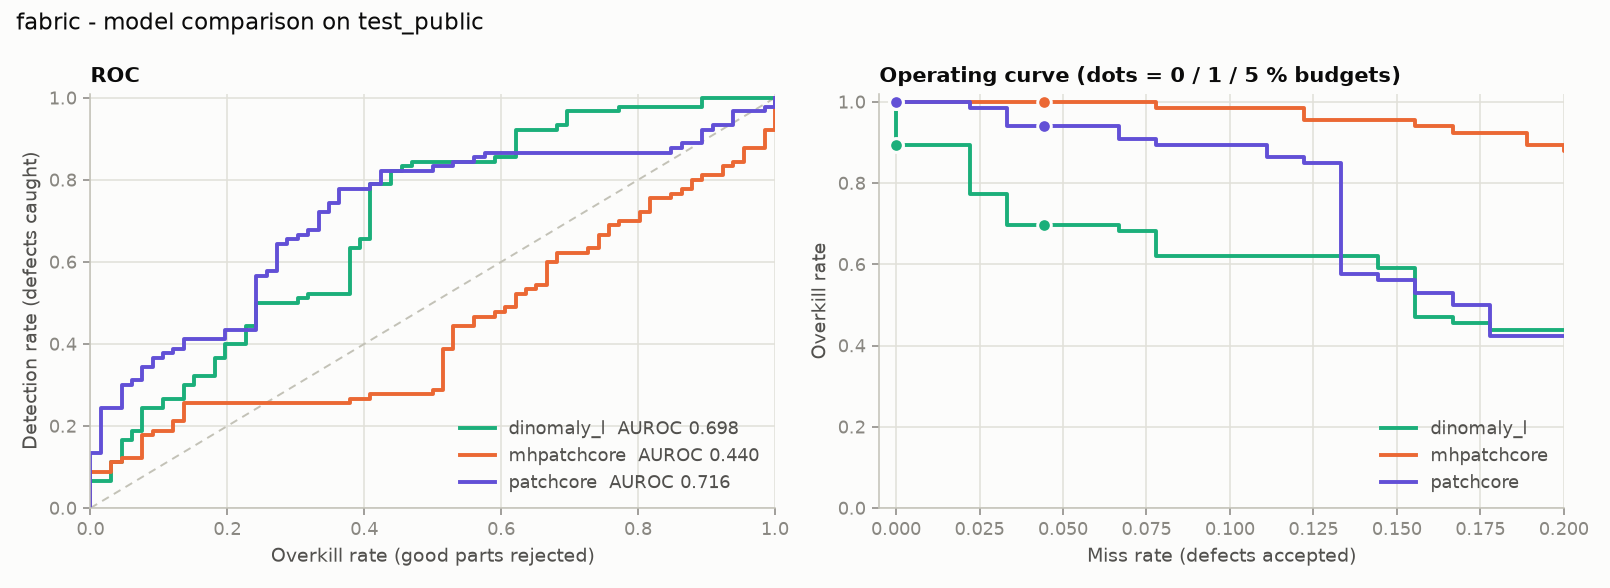
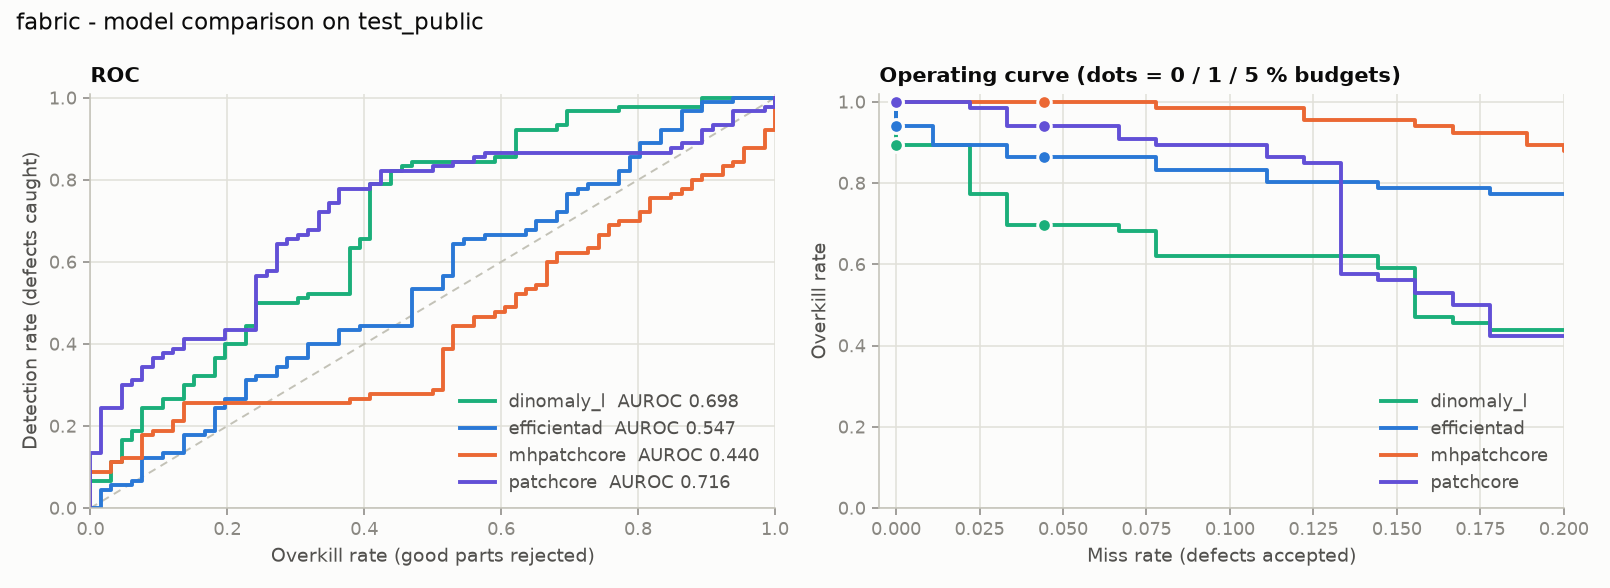
Complete EfficientAD on 8 categories; verify the pipeline on MVTec AD; add anomaly-map study
- EfficientAD 8/8 (mean AUROC 0.636); all analyses rerun with four models
- PatchCore on the original MVTec AD (archive matches the official SHA-256): mean image
  AUROC 0.982, so the near-chance AD 2 categories are not a pipeline fault
- export_maps.py: re-predicts with saved checkpoints, keeps anomaly maps, compares image-score
  aggregations and computes AU-PRO@0.05 at model input resolution; no aggregation helps
  consistently, Dinomaly-L localises best (0.317)
- augmented PatchCore does not reduce overkill under shift conditions (0.909 -> 0.908)
- score.py --dataset mvtecad

diff --git a/scripts/export_maps.py b/scripts/export_maps.py
@@ -1,0 +1,120 @@
+"""Re-predict test_public with a trained checkpoint and keep the anomaly maps.
+
+Two questions the image scores alone cannot answer:
+  * Would another way of turning the map into an image score separate good from defective
+    better than the model's own score (usually the map maximum)? Each aggregation is written as
+    an extra score file under results/scores_alt/, so evaluate.py can judge it on overkill.
+  * How well does the model localise defects? AU-PRO up to a 5 % false positive rate, the
+    MVTec AD 2 paper's metric. It is computed at the model's input resolution (after its resize
+    and centre crop, downsampled to at most MAP_SIDE), not at full image resolution as the
+    official server does, so it is close to but not the same as the paper's number.
+
+    uv run python scripts/export_maps.py --model patchcore --category sheet_metal
+"""
+
+from __future__ import annotations
+
+import argparse
+from pathlib import Path
+
+import numpy as np
+import pandas as pd
+import torch
+import torch.nn.functional as F
+from anomalib.data import MVTecAD2
+from anomalib.engine import Engine
+from anomalib.metrics.aupro import _AUPRO
+from anomalib.models import Dinomaly, EfficientAd, MHPatchcore, Patchcore
+from sklearn.metrics import roc_auc_score
+
+CLASSES = {"patchcore": Patchcore, "mhpatchcore": MHPatchcore, "efficientad": EfficientAd, "dinomaly_l": Dinomaly}
+MAP_SIDE = 256  # maps and masks are stored and scored at most this large
+AGGREGATIONS = {
+    "max": lambda m: m.max(axis=1),
+    "top1": lambda m: np.sort(m, axis=1)[:, -max(1, m.shape[1] // 100):].mean(axis=1),
+    "top5": lambda m: np.sort(m, axis=1)[:, -max(1, m.shape[1] // 20):].mean(axis=1),
+    "mean": lambda m: m.mean(axis=1),
+}
+
+
+def ckpt_of(model: str, category: str) -> Path:
+    found = sorted(Path("results/runs", model, category).rglob("model.ckpt"), key=lambda p: p.stat().st_mtime)
+    if not found:
+        raise FileNotFoundError(f"no checkpoint under results/runs/{model}/{category}")
+    return found[-1]
+
+
+def shrink(x: torch.Tensor, mode: str) -> torch.Tensor:
+    """(N, H, W) -> (N, h, w) with max(h, w) <= MAP_SIDE."""
+    n, h, w = x.shape
+    s = min(1.0, MAP_SIDE / max(h, w))
+    if s == 1.0:
+        return x
+    size = (max(1, round(h * s)), max(1, round(w * s)))
+    y = F.interpolate(x[:, None].float(), size=size, mode=mode, **({"align_corners": False} if mode == "bilinear" else {}))
+    return y[:, 0]
+
+
+def main() -> None:
+    p = argparse.ArgumentParser()
+    p.add_argument("--model", choices=CLASSES, required=True)
+    p.add_argument("--category", required=True)
+    p.add_argument("--root", type=Path, default=Path("datasets/MVTec_AD_2"))
+    p.add_argument("--limit-batches", type=int, default=None, help="smoke test: only the first N test batches")
+    p.add_argument("--out", type=Path, default=Path("results"))
+    args = p.parse_args()
+
+    ckpt = ckpt_of(args.model, args.category)
+    model = CLASSES[args.model].load_from_checkpoint(ckpt, map_location="cpu")
+    dm = MVTecAD2(root=args.root, category=args.category, eval_batch_size=8, num_workers=2)
+    dm.setup()
+    engine = Engine(logger=False, enable_progress_bar=False, limit_predict_batches=args.limit_batches)
+    batches = engine.predict(model=model, dataloaders=dm.test_dataloader())
+
+    maps, masks, labels, paths, own = [], [], [], [], []
+    for b in batches:
+        maps.append(shrink(b.anomaly_map.detach().float().cpu().reshape(-1, *b.anomaly_map.shape[-2:]), "bilinear"))
+        gt = b.gt_mask.detach().cpu().reshape(-1, *b.gt_mask.shape[-2:]).float()
+        masks.append(shrink(gt, "nearest") > 0.5)
+        labels += [int(v) for v in b.gt_label]
+        paths += list(b.image_path)
+        own += [float(v) for v in b.pred_score]
+    maps_t, masks_t = torch.cat(maps), torch.cat(masks)
+    y = np.array(labels)
+    flat = maps_t.reshape(len(maps_t), -1).numpy()
+
+    stem = f"{args.model}__{args.category}"
+    out_maps = args.out / "maps"
+    out_maps.mkdir(parents=True, exist_ok=True)
+    np.savez_compressed(out_maps / f"{stem}.npz", maps=maps_t.numpy().astype(np.float16), masks=masks_t.numpy(),
+                        labels=y, paths=np.array(paths), pred_score=np.array(own))
+
+    row = {"model": args.model, "category": args.category, "n_images": len(y), "ckpt": str(ckpt),
+           "auroc_model_score": roc_auc_score(y, own)}
+    alt_dir = args.out / "scores_alt"
+    alt_dir.mkdir(parents=True, exist_ok=True)
+    for name, agg in AGGREGATIONS.items():
+        s = agg(flat)
+        row[f"auroc_{name}"] = roc_auc_score(y, s)
+        pd.DataFrame({"image_path": paths, "label": y, "score": s}).to_csv(
+            alt_dir / f"{args.model}-{name}__{args.category}__seed0.csv", index=False)
+
+    aupro = _AUPRO(fpr_limit=0.05)
+    aupro.update(maps_t, masks_t.int())
+    row["aupro_005"] = float(aupro.compute()) if masks_t.any() else float("nan")
+
+    reference = Path("results/scores") / f"{args.model}__{args.category}__seed0.csv"
+    if reference.exists() and args.limit_batches is None:
+        ref = pd.read_csv(reference)
+        row["auroc_reference_csv"] = roc_auc_score(ref.label, ref.score)
+
+    metrics = args.out / ("map_metrics_smoke.csv" if args.limit_batches else "map_metrics.csv")
+    old = pd.read_csv(metrics) if metrics.exists() else pd.DataFrame()
+    if len(old):
+        old = old[~((old.model == args.model) & (old.category == args.category))]
+    pd.concat([old, pd.DataFrame([row])]).to_csv(metrics, index=False)
+    print({k: (round(v, 3) if isinstance(v, float) else v) for k, v in row.items() if k != "ckpt"}, flush=True)
+
+
+if __name__ == "__main__":
+    main()

diff --git a/src/industrial_inspection/plots.py b/src/industrial_inspection/plots.py
@@ -286,7 +286,7 @@ def fewshot_figure(overall: pd.DataFrame, out: Path | None = None) -> Path:
         ax.set_ylim(0, 1.02)
         _style(ax, "Known defective parts used for calibration (k)", ylabel, title)
     a1.legend(frameon=False, fontsize=9, loc="upper right", labelcolor=INK2)
-    fig.suptitle("Few-shot threshold calibration - mean over 3 models x 8 categories, 200 part-level draws each",
+    fig.suptitle("Few-shot threshold calibration - mean over all models x 8 categories, 200 part-level draws each",
                  color=INK, fontsize=12, x=0.01, ha="left")
     return _save(fig, out or Path("results/figures") / "fewshot_calibration.png")
 
@@ -356,3 +356,52 @@ def latency_figure(df: pd.DataFrame, out: Path | None = None) -> Path:
     _style(ax, "", "Latency per image (ms, batch 1)", "Median latency (whisker = p95), pre-processing included")
     ax.legend(frameon=False, fontsize=9, loc="upper left", labelcolor=INK2)
     return _save(fig, out or Path("results/figures") / "latency.png")
+
+
+def ad1_check_figure(per_cat: pd.DataFrame, published_mean: float, out: Path | None = None) -> Path:
+    """Image AUROC of PatchCore per original MVTec AD category, against the published average."""
+    d = per_cat.sort_values("auroc")
+    fig, (ax,) = _figure(1, 10, 4.4)
+    y = np.arange(len(d))
+    ax.hlines(y, 0.85, d.auroc, color=AXIS, linewidth=1.5)
+    ax.scatter(d.auroc, y, s=60, color=model_color("patchcore"), edgecolors=SURFACE, linewidths=1.2, zorder=3)
+    ax.axvline(d.auroc.mean(), color=model_color("patchcore"), linewidth=1.2, linestyle=(0, (4, 3)))
+    ax.axvline(published_mean, color=INK2, linewidth=1.2, linestyle=(0, (1, 2)))
+    ax.annotate(f"ours mean {d.auroc.mean():.3f}", (d.auroc.mean(), len(d) - 0.6), xytext=(-4, 0),
+                textcoords="offset points", ha="right", color=INK2, fontsize=9)
+    ax.annotate(f"published ~{published_mean:.2f}", (published_mean, 0.4), xytext=(4, 0),
+                textcoords="offset points", color=INK2, fontsize=9)
+    ax.set_yticks(y, d.category)
+    ax.set_xlim(0.85, 1.005)
+    _style(ax, "Image AUROC", "", "PatchCore on the original MVTec AD (pipeline sanity check)")
+    return _save(fig, out or Path("results/figures") / "ad1_check.png")
+
+
+def map_study_figure(agg: pd.DataFrame, aupro: pd.DataFrame, overkill: pd.DataFrame, out: Path | None = None) -> Path:
+    """Image-score aggregations (mean AUROC and held-out overkill) and AU-PRO@0.05 per model."""
+    models = [m for m in MODEL_SLOT if m in set(agg.model)]
+    names = ["model score", "max", "top1", "top5", "mean"]
+    fig, axes = _figure(3, 17, 4.6)
+    x = np.arange(len(names))
+    width = 0.8 / len(models)
+    for ax, df, ylabel, title in ((axes[0], agg, "Mean AUROC over 8 categories", "Image score from the anomaly map"),
+                                  (axes[1], overkill, "Overkill at 0 % miss (part split)", "Overkill on unseen parts")):
+        for i, m in enumerate(models):
+            v = df[df.model == m].set_index("aggregation").reindex(names).value
+            ax.bar(x + (i - (len(models) - 1) / 2) * width, v, width=width - 0.02, color=model_color(m), label=m,
+                   edgecolor=SURFACE, linewidth=1)
+        ax.set_xticks(x, names)
+        _style(ax, "", ylabel, title)
+    axes[0].set_ylim(0.4, 0.8)
+    axes[1].set_ylim(0.5, 1.0)
+    axes[0].legend(frameon=False, fontsize=9, loc="upper left", labelcolor=INK2, ncol=2)
+    cats = sorted(aupro.category.unique())
+    yy = np.arange(len(cats))
+    offs = np.linspace(-0.25, 0.25, len(models))
+    for off, m in zip(offs, models):
+        v = aupro[aupro.model == m].set_index("category").reindex(cats).aupro_005
+        axes[2].scatter(v, yy + off, s=40, color=model_color(m), edgecolors=SURFACE, linewidths=1, zorder=3)
+    axes[2].set_yticks(yy, cats)
+    _style(axes[2], "AU-PRO up to 5 % FPR (model input resolution)", "", "Defect localisation")
+    fig.suptitle("Anomaly-map study on MVTec AD 2 test_public", color=INK, fontsize=12, x=0.01, ha="left")
+    return _save(fig, out or Path("results/figures") / "map_study.png")

diff --git a/scripts/score.py b/scripts/score.py
@@ -18,7 +18,7 @@ from pathlib import Path
 
 import pandas as pd
 import torch
-from anomalib.data import MVTecAD2
+from anomalib.data import MVTecAD, MVTecAD2
 from anomalib.engine import Engine
 from anomalib.models import Dinomaly, EfficientAd, MHPatchcore, Patchcore
 from lightning.pytorch.callbacks import Callback
@@ -213,6 +213,8 @@ def main() -> None:
     p.add_argument("--model", choices=MODELS, required=True)
     p.add_argument("--category", required=True)
     p.add_argument("--root", type=Path, default=Path("datasets/MVTec_AD_2"))
+    p.add_argument("--dataset", choices=["mvtecad2", "mvtecad"], default="mvtecad2",
+                   help="mvtecad = the original MVTec AD, used to check the pipeline against published numbers")
     p.add_argument("--out", type=Path, default=Path("results/scores"))
     p.add_argument("--max-epochs", type=int, default=None)
     p.add_argument("--num-workers", type=int, default=4)
@@ -250,7 +252,7 @@ def main() -> None:
 
     torch.manual_seed(args.seed)
     torch.set_float32_matmul_precision("high")  # use tensor cores (Ampere+) for fp32 matmuls
-    datamodule = MVTecAD2(
+    datamodule = {"mvtecad2": MVTecAD2, "mvtecad": MVTecAD}[args.dataset](
         root=args.root,
         category=args.category,
         train_batch_size=args.train_batch_size or TRAIN_BATCH[args.model],
